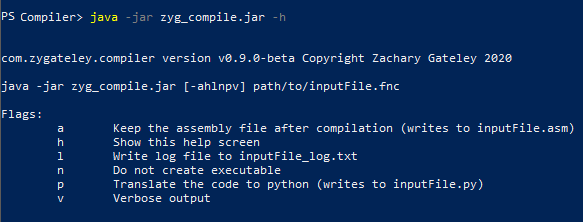
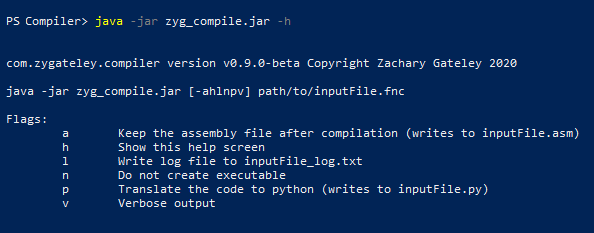
More updates to README

diff --git a/README.md b/README.md
@@ -1,14 +1,6 @@
 # Multi-Pass Compiler / Python Transpiler
 
-The first and main goal of this project is to present a working compiler from a simple made-up language. To such an end, there is a **front end**, a **middle stage**, and a **back end**. 
-
-The **front end** is composed of a <u>lexer</u> and a <u>parser</u>. The lexer reads predefined tokens from a file and builds a stream that the parser can read. Additionally, any variables or string literals found are added to a symbol table that is used throughout the compilation process. The parser reads through the token stream and builds a syntax tree out of the stream. There are two different sets of rules for the parser. One set is a context free grammar (CFG), which relies on first-token sets that dictate unique left-to-right pathways through any valid token stream. The other set is also a CFG, but it is instead dictated by unique middle tokens. This second set allows for appropriate application of precedence rules in expressions.
-
-The **middle stage** crawls the bulky syntax tree that results from the parser and builds an optimized, bare-bones syntax tree that represents the entirety of the program without containing any elements that will not be used by the back end. This is achieved by binding predefined elements that will be used by the compiler with different parse rules and tokens. In this way, the syntax tree can be crawled to find these basic elements, building a valid, optimized tree meanwhile. To accommodate grammar rules that do not lend themselves easily to syntax trees as the back-end expects them, the language can define reflow rules adjust the primary syntax tree to the final optimized counterpart. 
-
-The **back end** is composed of an <u>assembler</u> and an interface with the <u>compiler of the assembler</u>. For an up-to-date demonstration of the currently-available backend functionalities, [please see Example1](Examples/Example1 "Demonstration of currently-available backend functionalities"). At the moment, the aim is to create a generalized assembler with links to assembly language Java classes, which with carefully chosen methods can output the code from the assembler without knowing the specific assembly language in question. Finally, the assembly language in question will indicate the assembly compiler command-line directives, which will generate the final executable file.
-
-To assist in development, there is also a Python translator, which is equivalent in all major ways. Scoping rules and other details may be different.
+The first and main goal of this project is to present a working compiler from a simple made-up language. To such an end, there is a **front end**, a **middle stage**, and a **back end**, all described in greater detail in the sections below. For an up-to-date demonstration of the currently-available backend functionalities, [please see Example1](Examples/Example1 "Demonstration of currently-available backend functionalities").
 
 <br />
 
@@ -62,9 +54,7 @@ Notice! Running this JAR file will unpack the GoAsm executables and a custom ass
 
 For the following [example](Examples/Example0/), you may imagine that the following command line code was executed
 
-```
-java -jar zyg_compile.jar -alpv Example0.fnc
-```
+![](README/Images/CommandLine.png)
 
 
 
